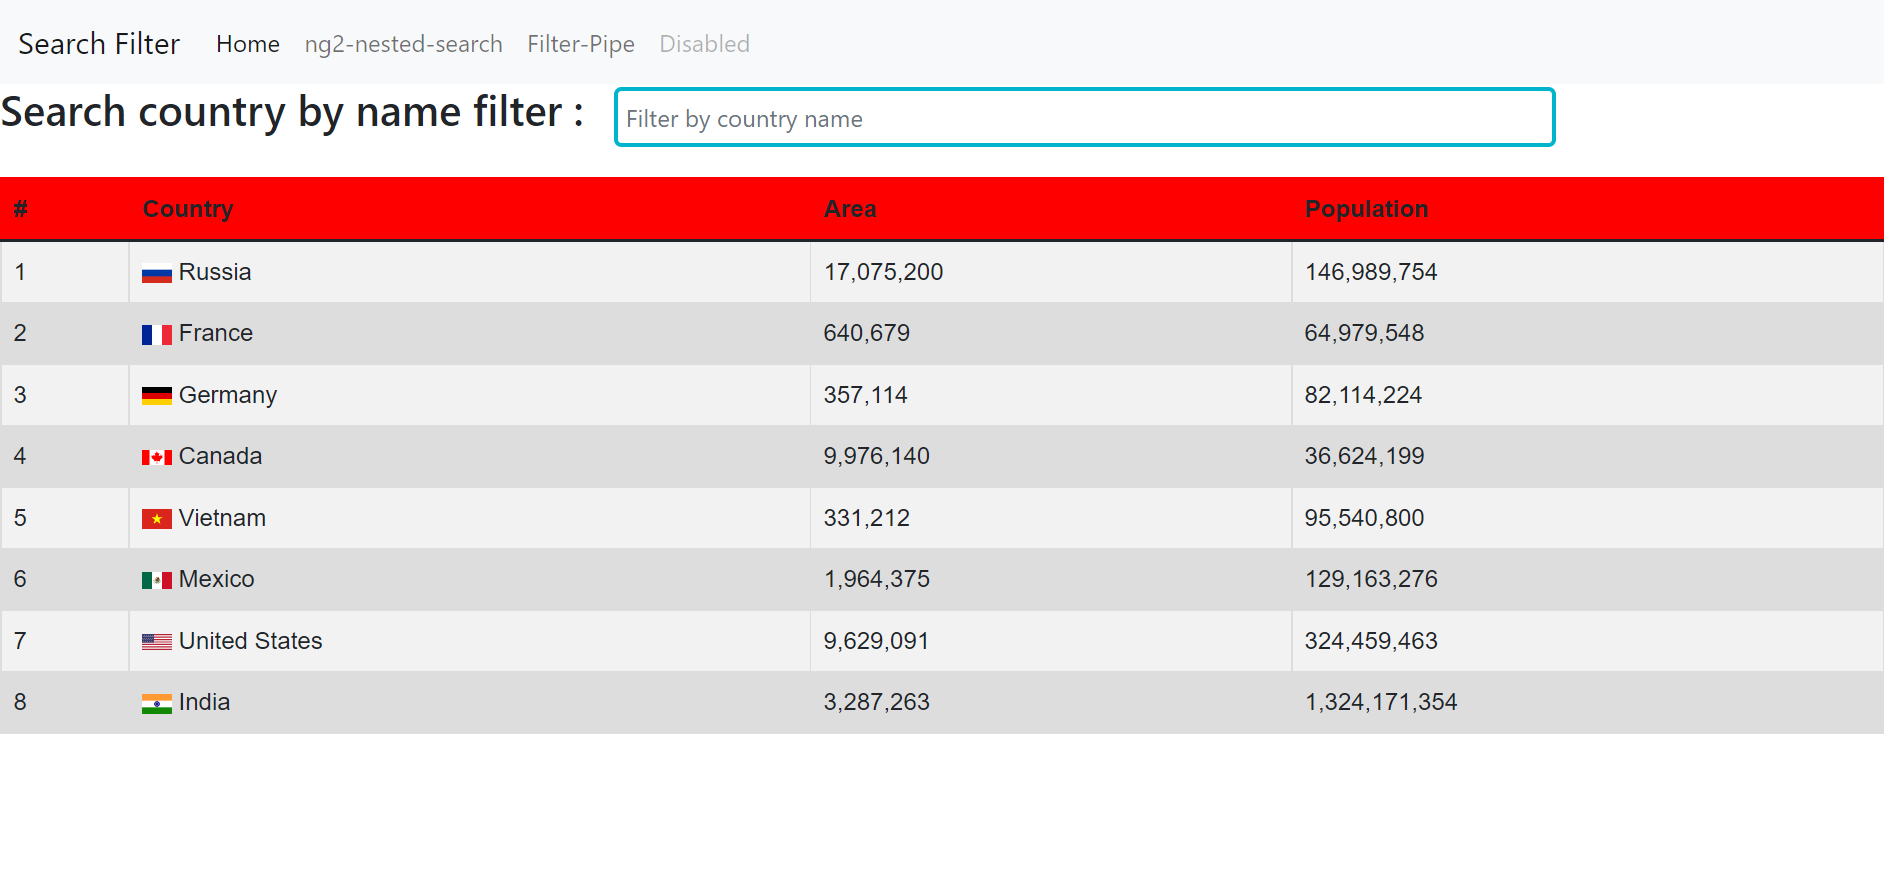
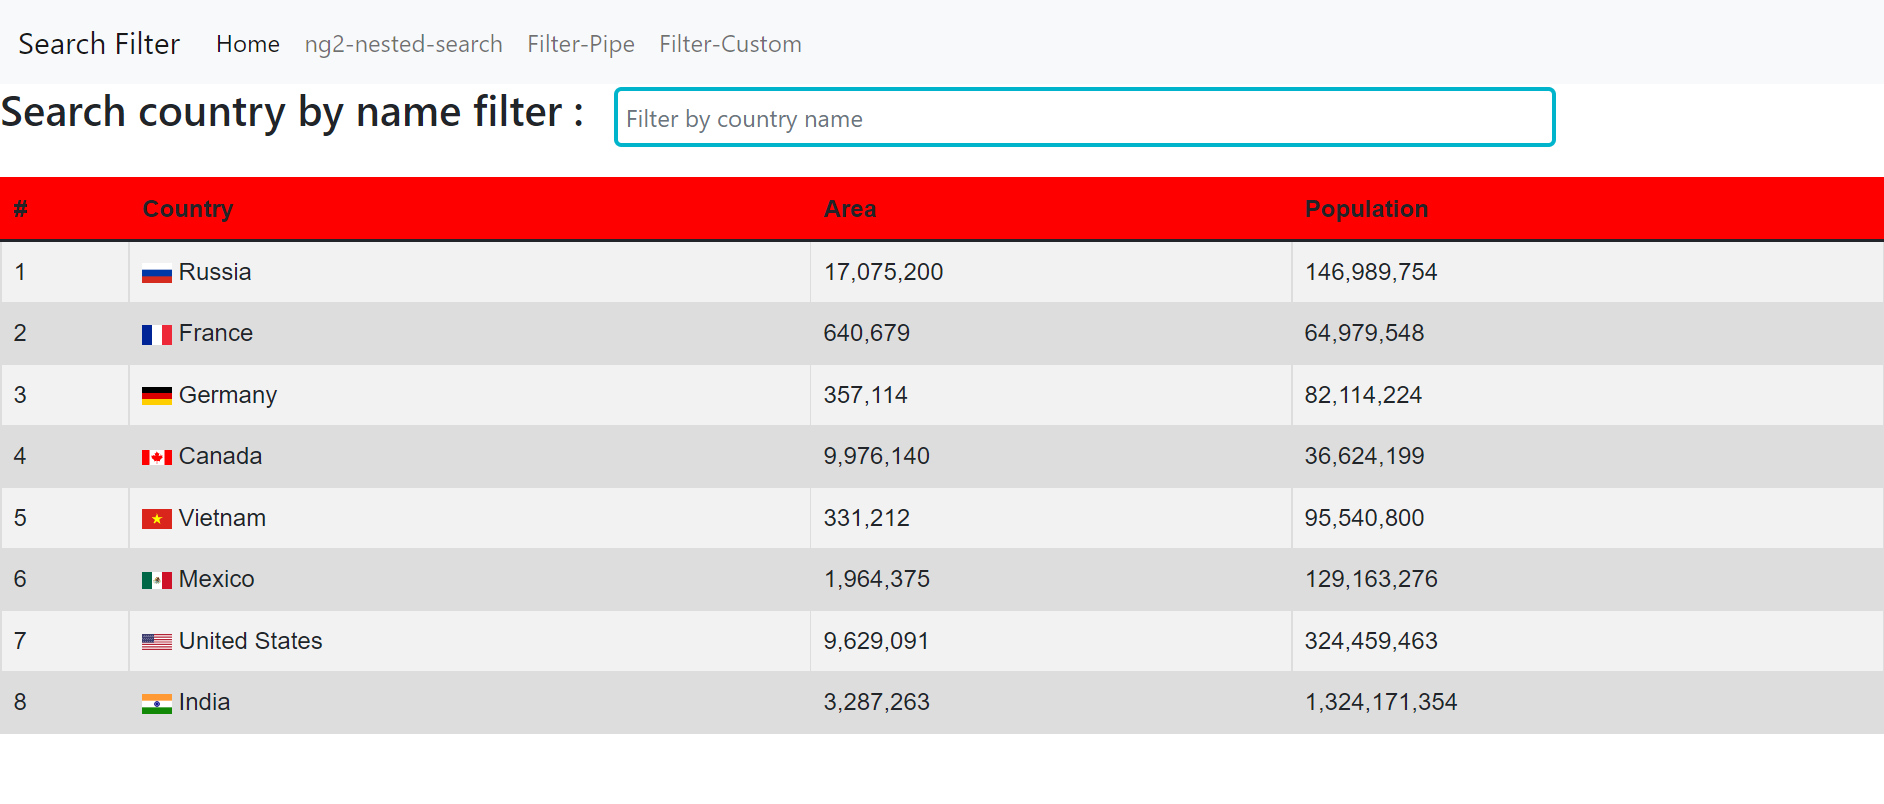
first4 commit

diff --git a/src/app/components/search-custom/search-custom.component.ts b/src/app/components/search-custom/search-custom.component.ts
@@ -1,5 +1,6 @@
 import { Component, OnInit } from '@angular/core';
 import { HttpClient } from '@angular/common/http';
+
 interface Country {
   name: string;
   flag: string;
@@ -7,11 +8,11 @@ interface Country {
   population: number;
 }
 @Component({
-  selector: 'app-search-pipe',
-  templateUrl: './search-pipe.component.html',
-  styleUrls: ['./search-pipe.component.scss']
+  selector: 'app-search-custom',
+  templateUrl: './search-custom.component.html',
+  styleUrls: ['./search-custom.component.scss']
 })
-export class SearchPipeComponent implements OnInit {
+export class SearchCustomComponent implements OnInit {
   searchTerm!: any;
   countries!: Country[];
   allCountries!: Country[];
@@ -24,6 +25,8 @@ export class SearchPipeComponent implements OnInit {
       this.allCountries = this.countries;
     });
   }
-  
+  search(event: any): void {
+    this.countries = this.allCountries.filter((val) => val.name.toLowerCase().includes(event.target.value));
+  }
 
 }

diff --git a/src/app/components/search-custom/search-custom.component.scss b/src/app/components/search-custom/search-custom.component.scss
@@ -1,0 +1,52 @@
+table {
+    font-family: arial, sans-serif;
+    border-collapse: collapse;
+    width: 100%;
+
+    th {
+        background-color: red;
+        border: 1px solid red;
+    }
+    td {
+        border: 1px solid #dddddd;
+    }
+    td, th {
+        text-align: left;
+        padding: 8px;
+    }
+      
+    tr:nth-child(even) {
+        background-color: #dddddd;
+    }
+}
+ 
+.wrap{
+  .search {
+    width: 100%;
+    position: relative;
+    display: flex;
+  }
+  
+  .searchTerm {
+    width: 100%;
+    border: 3px solid #00B4CC;
+    padding: 5px;
+   
+    border-radius: 5px;
+    outline: none;
+    color: #9DBFAF;
+  }
+  
+  .searchTerm:focus {
+    color: #00B4CC;
+  }
+  p{
+      color: #383c52;
+  }
+}
+form {
+    input {
+        width: 50% !important;
+        margin: 2px 0 20px 20px;
+    }
+}

diff --git a/src/app/components/search-custom/search-custom.component.html b/src/app/components/search-custom/search-custom.component.html
@@ -2,7 +2,7 @@
     <div class="search">
       <h3>Search country by name filter : </h3>
       <input class="form-control searchTerm" type="text" name="searchTerm" placeholder="Filter by country name"
-        [(ngModel)]="searchTerm"  />
+        [(ngModel)]="searchTerm" (input)="search($event)" />
     </div>
   </form>
   
@@ -16,7 +16,7 @@
       </tr>
     </thead>
     <tbody>
-      <tr *ngFor="let country of countries | searchFilter: searchTerm; index as i">
+      <tr *ngFor="let country of countries ; index as i">
         <td scope="row">{{ i + 1 }}</td>
         <td>
           <img [src]="'https://upload.wikimedia.org/wikipedia/commons/' + country.flag" class="mr-2" style="width: 20px">

diff --git a/src/app/components/search-custom/search-custom.component.spec.ts b/src/app/components/search-custom/search-custom.component.spec.ts
@@ -1,0 +1,25 @@
+import { ComponentFixture, TestBed } from '@angular/core/testing';
+
+import { SearchCustomComponent } from './search-custom.component';
+
+describe('SearchCustomComponent', () => {
+  let component: SearchCustomComponent;
+  let fixture: ComponentFixture<SearchCustomComponent>;
+
+  beforeEach(async () => {
+    await TestBed.configureTestingModule({
+      declarations: [ SearchCustomComponent ]
+    })
+    .compileComponents();
+  });
+
+  beforeEach(() => {
+    fixture = TestBed.createComponent(SearchCustomComponent);
+    component = fixture.componentInstance;
+    fixture.detectChanges();
+  });
+
+  it('should create', () => {
+    expect(component).toBeTruthy();
+  });
+});

diff --git a/src/app/app-routing.module.ts b/src/app/app-routing.module.ts
@@ -1,11 +1,13 @@
 import { NgModule } from '@angular/core';
 import { RouterModule, Routes } from '@angular/router';
+import { SearchCustomComponent } from './components/search-custom/search-custom.component';
 import { SearchFilterComponent } from './components/search-filter/search-filter.component';
 import { SearchPipeComponent } from './components/search-pipe/search-pipe.component';
 
 const routes: Routes = [
   {path:'searchFilter',component:SearchFilterComponent},
-  {path:'searchPipe', component:SearchPipeComponent}
+  {path:'searchPipe', component:SearchPipeComponent},
+  {path:'searchCustom', component:SearchCustomComponent}
 ];
 
 @NgModule({

diff --git a/src/app/app.module.ts b/src/app/app.module.ts
@@ -10,6 +10,7 @@ import { FormsModule } from '@angular/forms';
 import { SearchFilterPipe } from './search-filter.pipe';
 import { HttpClientModule } from '@angular/common/http';
 import { NavbarComponent } from './components/navbar/navbar.component';
+import { SearchCustomComponent } from './components/search-custom/search-custom.component';
 
 @NgModule({
   declarations: [
@@ -17,7 +18,8 @@ import { NavbarComponent } from './components/navbar/navbar.component';
     SearchFilterComponent,
     SearchPipeComponent,
     SearchFilterPipe,
-    NavbarComponent
+    NavbarComponent,
+    SearchCustomComponent
   ],
   imports: [
     BrowserModule,

diff --git a/src/app/components/navbar/navbar.component.html b/src/app/components/navbar/navbar.component.html
@@ -17,7 +17,7 @@
             <a class="nav-link" [routerLink]="['/searchPipe']" routerLinkActive="router-link-active" >Filter-Pipe</a>
           </li>
           <li class="nav-item">
-            <a class="nav-link disabled">Disabled</a>
+            <a class="nav-link" [routerLink]="['/searchCustom']" routerLinkActive="router-link-active" >Filter-Custom</a>
           </li>
         </ul>
       </div>
